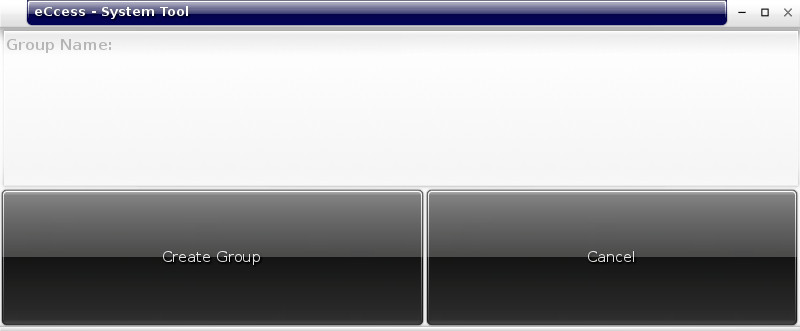
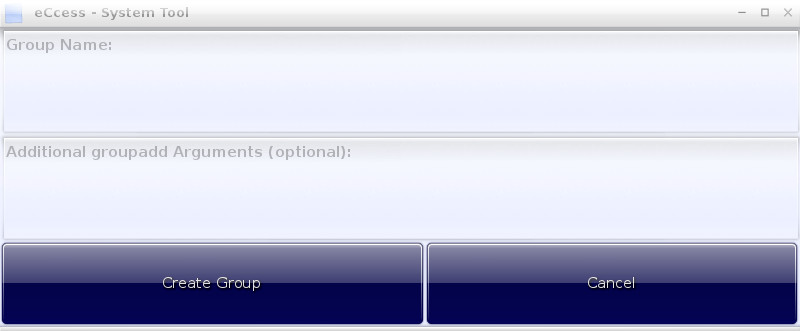
Added advanced options to user/group creation

diff --git a/TaskManager.py b/TaskManager.py
@@ -10,6 +10,7 @@ class TaskManager(elementary.Box):
         self.win = win = parent.mainWindow
         self.rent = parent
         self.appstokill = []
+        self.processes = []
         
         lbl = elementary.Label(self.win)
         lbl.text = "Running Processes:"
@@ -69,23 +70,23 @@ class TaskManager(elementary.Box):
         self.run_command(False, False, "kill -9 %s"%pid)
     
     def processes_build( self, cmd=False, arg=False ):
-        print "cmd %s , arg %s"%(cmd, arg)
+        #print "cmd %s , arg %s"%(cmd, arg)
         self.gl.clear()
+        self.processes = []
 
         itc = elementary.GenlistItemClass(item_style="default",
                                        content_get_func=self.process_return)
 
         tmp = psutil.get_process_list()
         for p in tmp:
-            #print p
-            #if "kworker" not in p.name and "getty" not in p.name and "watchdog" not in p.name and p.pid > 100:
             if os.getpgid(p.pid) > 1 and "getty" not in p.name:
                 self.gl.item_append(itc, p, None)
+                self.processes.append(p)
 
     def process_return( self, obj, part, data ):
         #print data.name
         #print data.pid
-        print "Name: %s , Group: %s"%(data.name, os.getpgid(data.pid))
+        #print "Name: %s , Group: %s"%(data.name, os.getpgid(data.pid))
         if part == "elm.swallow.icon":
             box = elementary.Box(self.win)
             box.horizontal = True
